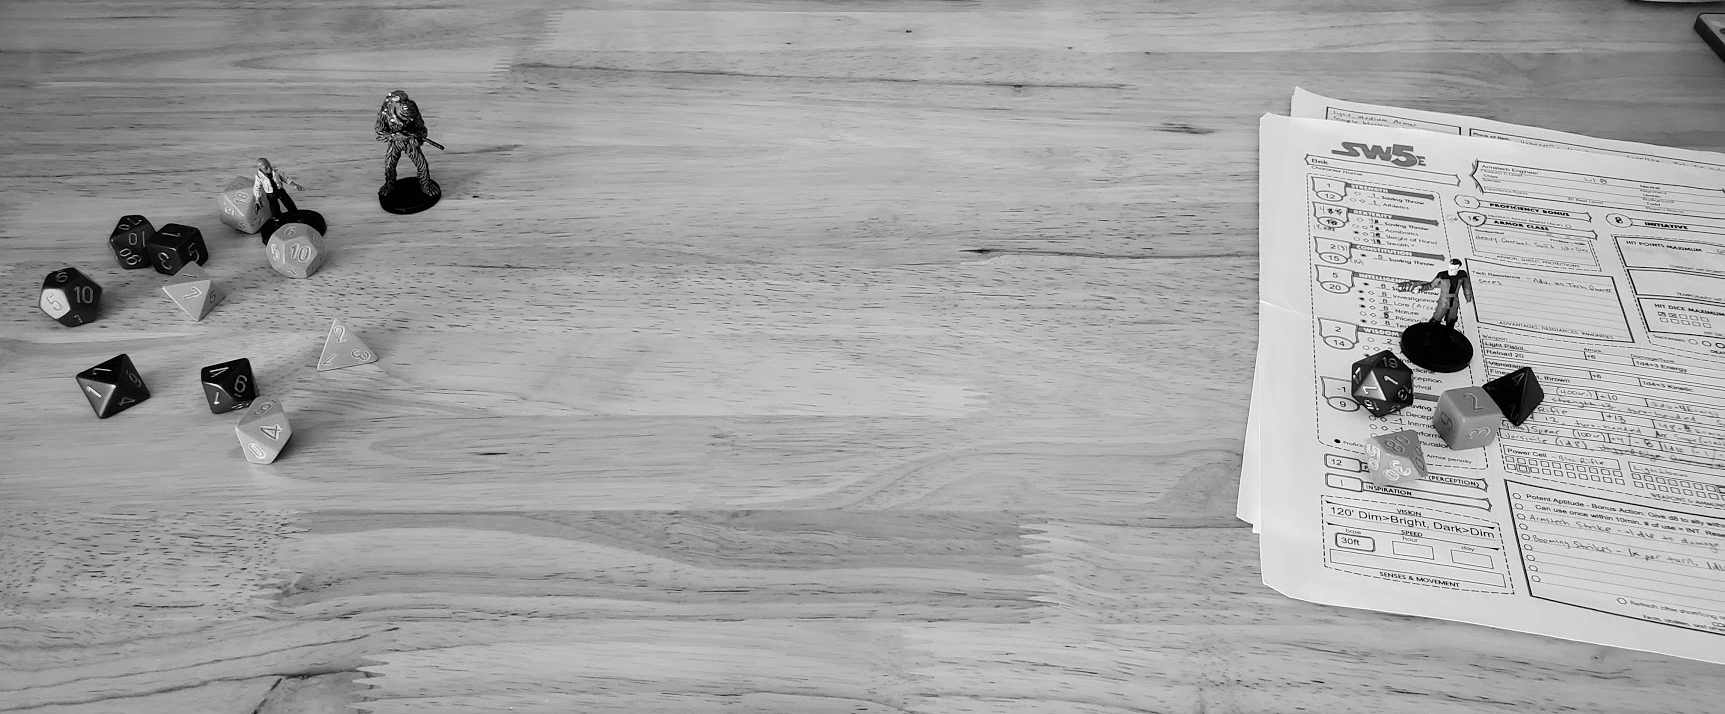
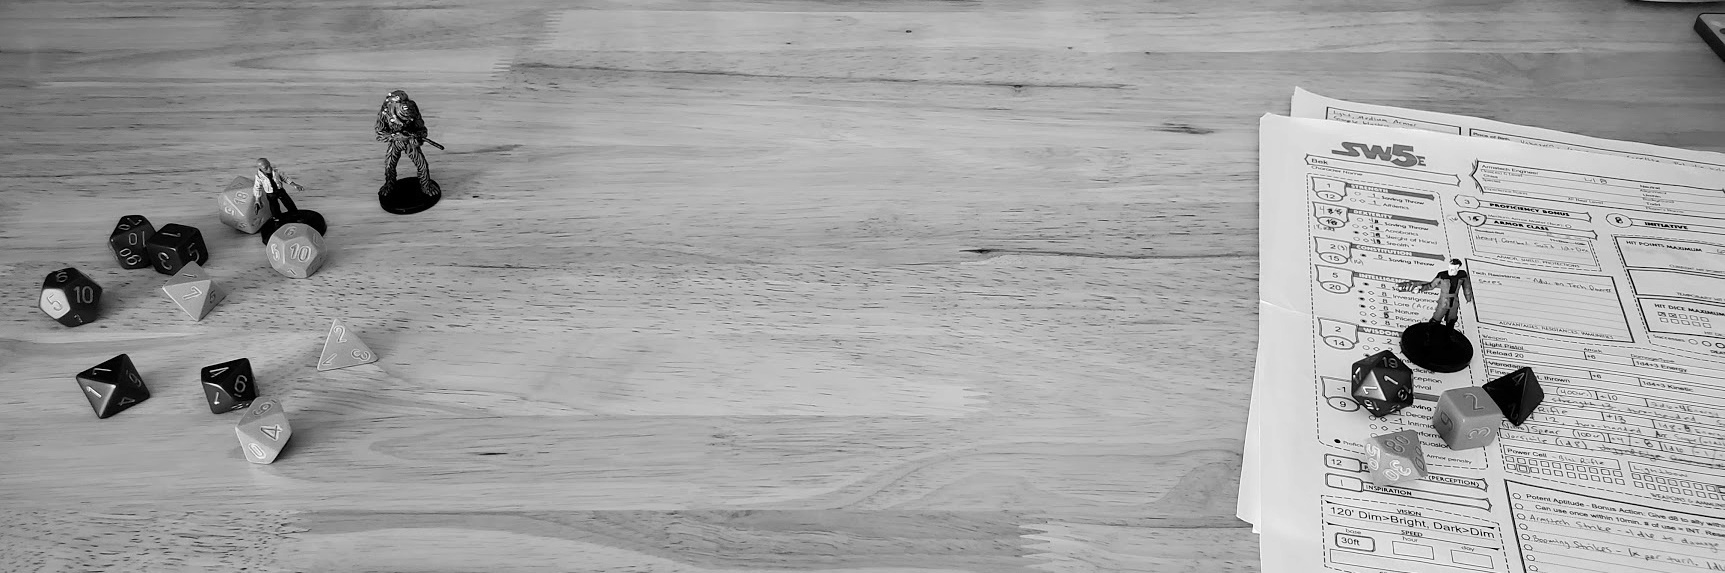
0.5.10 Minor fixes to homepage redesign

diff --git a/src/pages/HomePage.vue b/src/pages/HomePage.vue
@@ -205,7 +205,7 @@
       h1(:class="$style.sectionTitle") Getting in Touch
       p Star Wars 5e has five social media channels. Any time there is a content update or expanded content release, I share it across all five channels simultaneously, so you can follow on whichever you prefer.
       v-row
-        v-col(v-for="socialLink in socialLinks", :key="socialLink.subText").d-flex.flex-column.align-center
+        v-col(v-for="socialLink in socialLinks", :key="socialLink.subText", cols="12", md="4").d-flex.flex-column.align-center
           h1 {{ socialLink.title }}
           div.mb-5 {{ socialLink.subText }}
           div(v-for="{ href, icon, title } in socialLink.channels", :key="title").ma-2

diff --git a/src/version.ts b/src/version.ts
@@ -1,6 +1,10 @@
 export default '0.5.9'
 
 /*
+0.5.10
+- Adjust hero image height
+- Properly stack contact links on mobile
+
 0.5.9
 - Redesigned homepage again, but with @toddmoonbounce's suggestions
 
